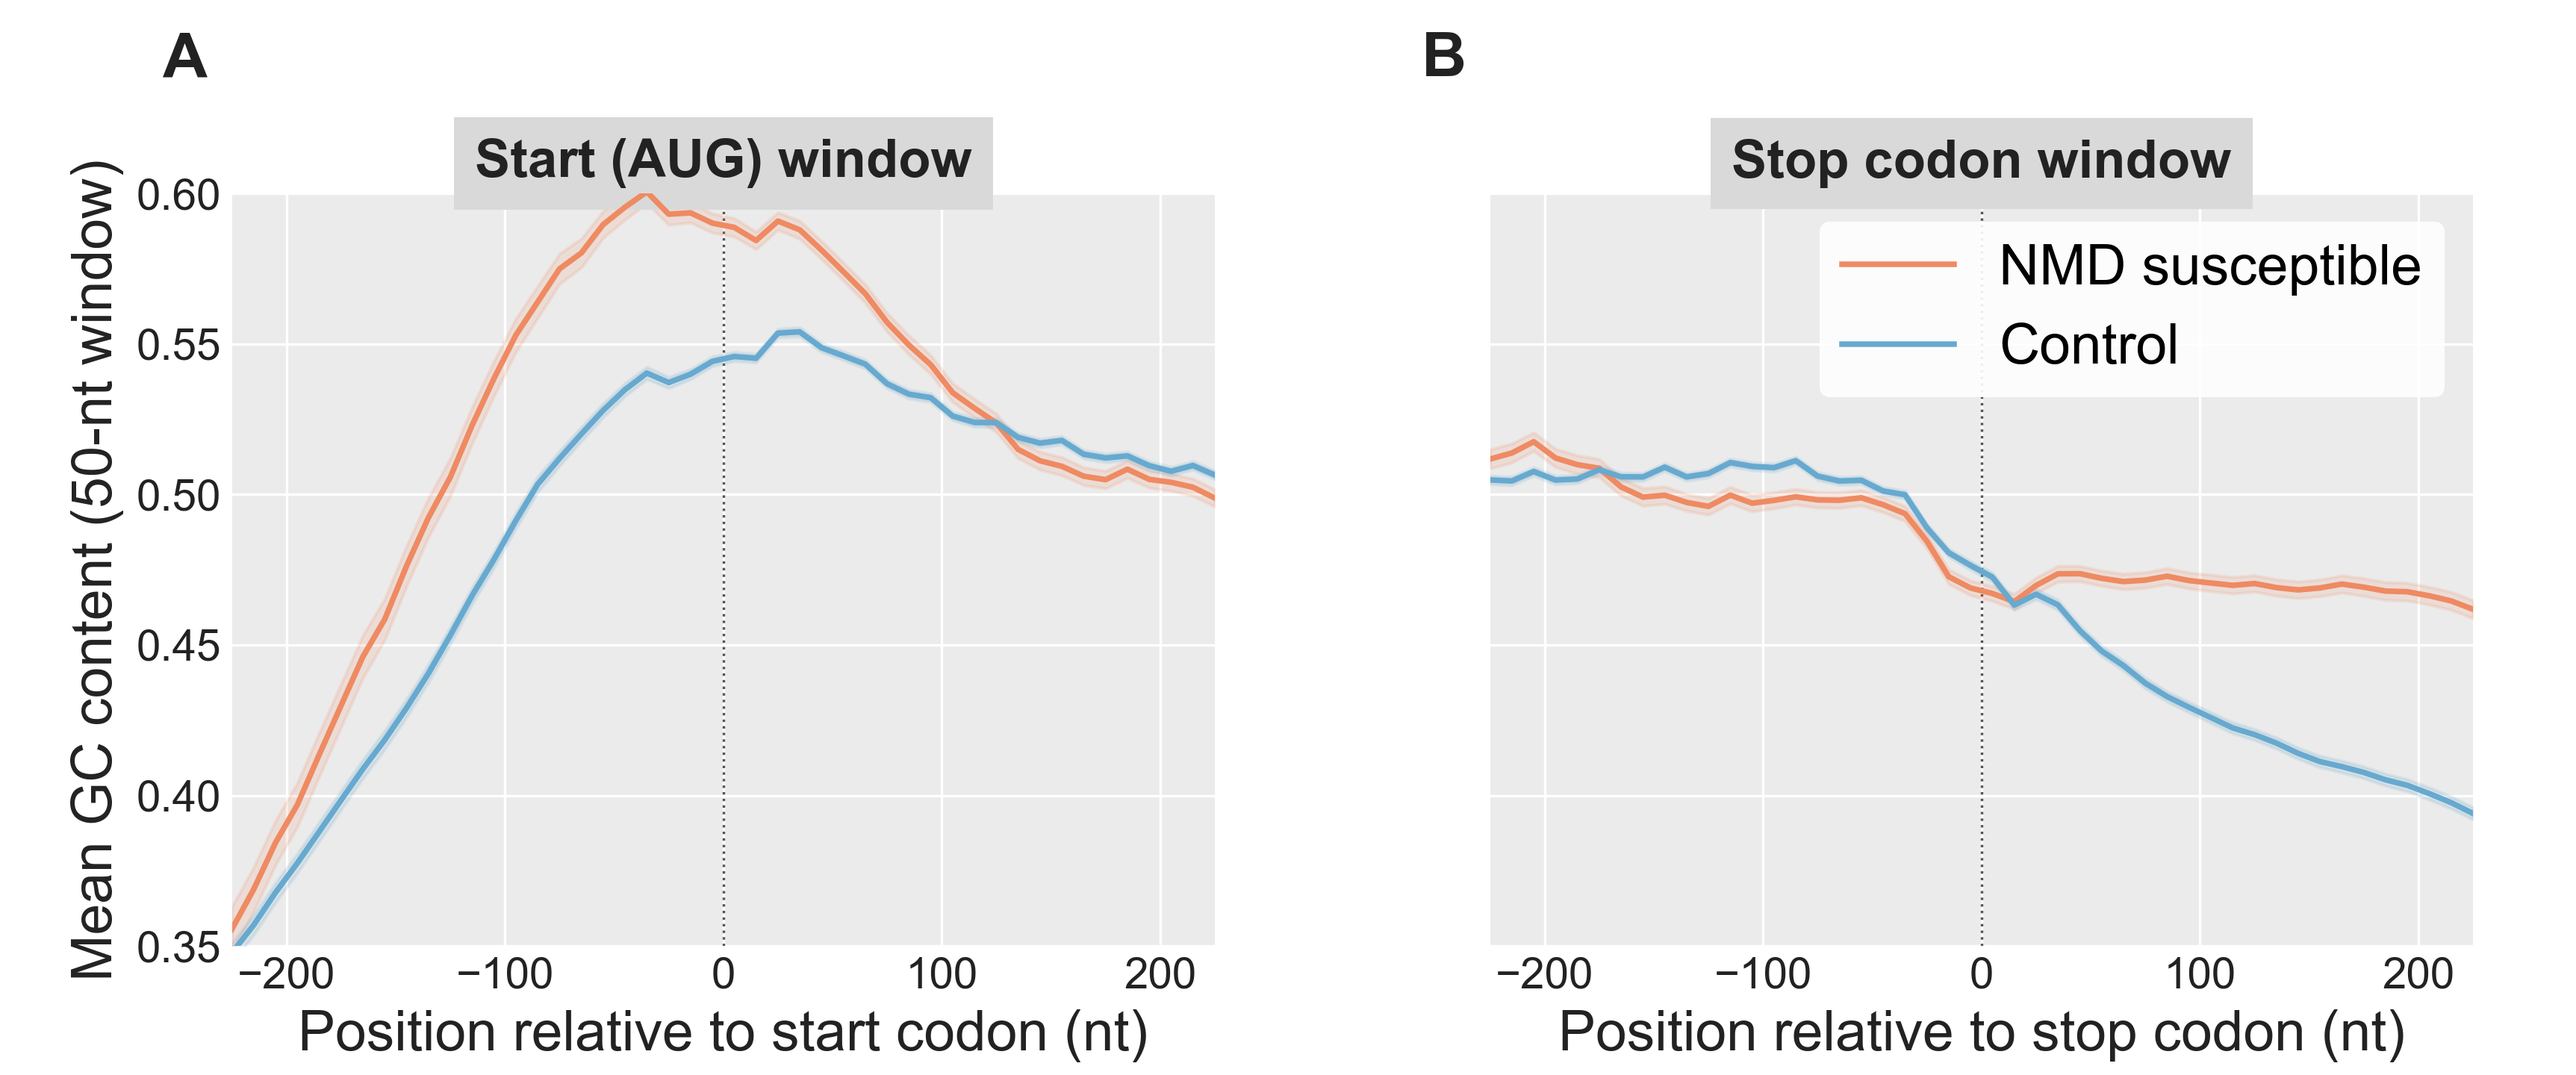
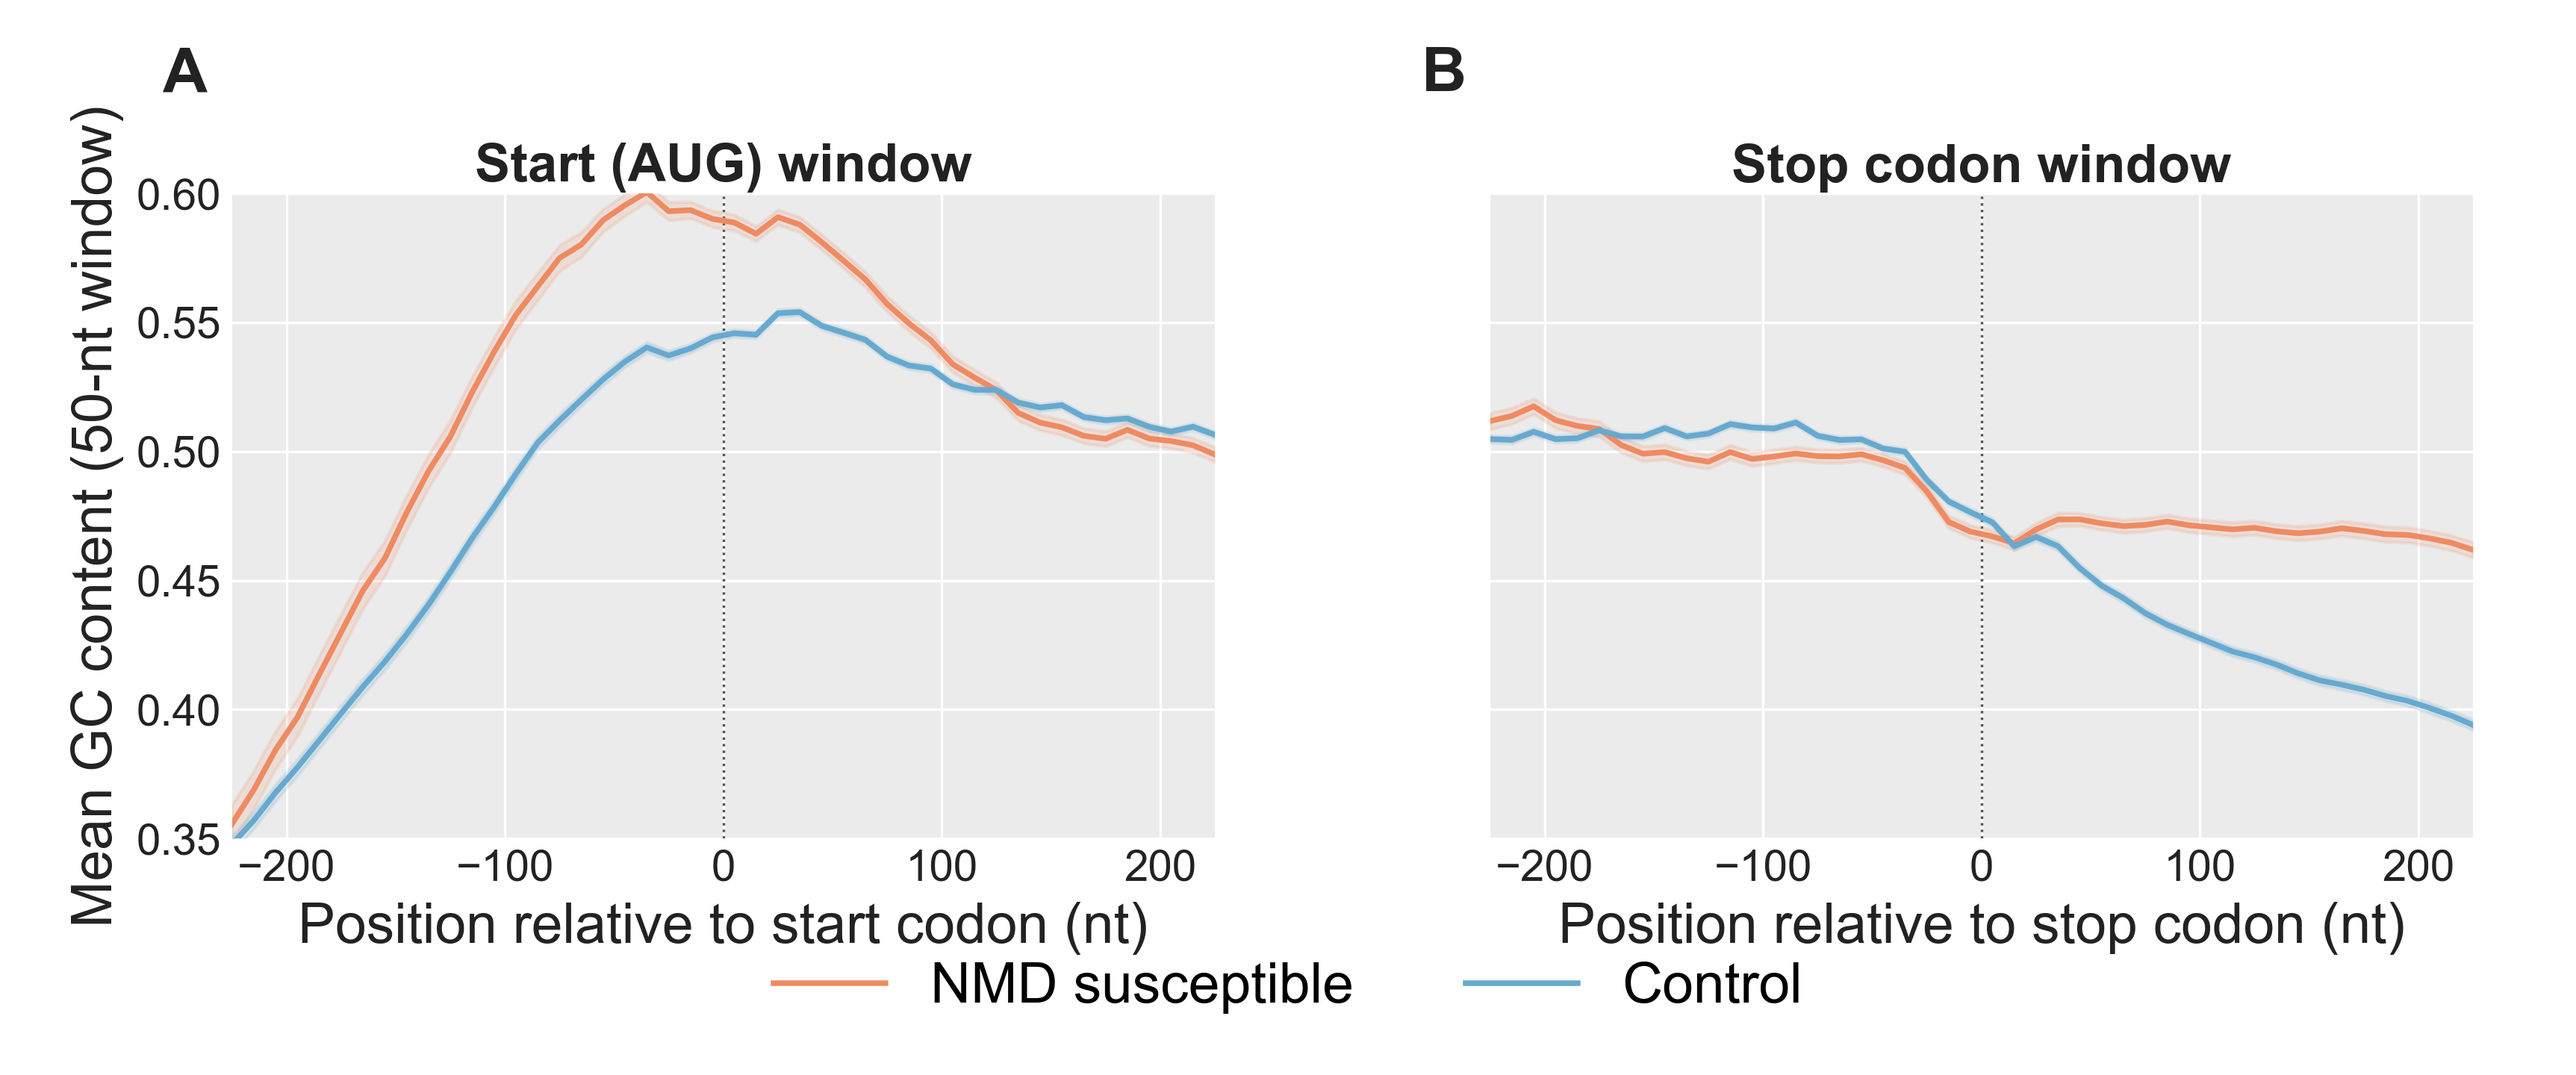
SF41: plain bold headers + external legend + concise legend text
- #11: gray facet-strip headers -> plain bold (shared facet_header fix)
- legend -> shared figure-level legend at bottom (GC curves fill both panels;
  resolves the B3 assert_legend_clear residual)
- #12: concise legend, title-cased; counts internally consistent (1,743/2,268 = 76.9%)

diff --git a/figures/SupplementalFigures/SF41_GCcontentStopWindow/figure_sf41_gc_content_stop_window.py b/figures/SupplementalFigures/SF41_GCcontentStopWindow/figure_sf41_gc_content_stop_window.py
@@ -89,7 +89,7 @@ def main():
     stop = load("stop")
 
     fig, axes = plt.subplots(1, 2, figsize=(NATIVE_W, 4.8), sharey=True)
-    fig.subplots_adjust(left=0.09, right=0.96, top=0.82, bottom=0.12, wspace=0.28)
+    fig.subplots_adjust(left=0.09, right=0.96, top=0.82, bottom=0.22, wspace=0.28)
 
     draw_panel(axes[0], atg,  codon_label="start codon")
     draw_panel(axes[1], stop, codon_label="stop codon")
@@ -101,8 +101,11 @@ def main():
     panel_letter(axes[0], "A", x=-0.07, y=1.14)
     panel_letter(axes[1], "B", x=-0.07, y=1.14)
 
-    axes[1].legend(loc="upper right", frameon=True, framealpha=0.9,
-                    edgecolor="none", facecolor="white", fontsize=BODY_FS)
+    # Shared legend in the bottom margin — the GC curves fill both panels,
+    # so an in-panel legend can't clear the data.
+    handles, labels = axes[0].get_legend_handles_labels()
+    fig.legend(handles, labels, loc="lower center", ncol=2, frameon=False,
+               fontsize=BODY_FS, bbox_to_anchor=(0.5, 0.01))
 
     # Facet headers extend past axis edges by design.
     render_and_validate(fig, HERE / "figure_sf41_gc_content_stop_window",

diff --git a/figures/SupplementalFigures/SF41_GCcontentStopWindow/figure_sf41_gc_content_stop_window_legend.md b/figures/SupplementalFigures/SF41_GCcontentStopWindow/figure_sf41_gc_content_stop_window_legend.md
@@ -1,1 +1,1 @@
-**SF41 | Rolling GC Content Across the AUG and Stop Codon Windows.** Mean rolling GC content per position of the transcript sequences supplied to the deep-learning model, comparing NMD susceptible (orange) and Control (blue) transcripts on the held-out test set. Each transcript's window is centered on its main open reading frame's start or stop codon. Main open reading frames are chosen with the following priority: the annotated reference CDS (projected from the gene's dominant non-NMD isoform) when available; otherwise the TransDecoder2-called CDS; otherwise the highest-Kozak-scoring open reading frame (see Methods, Main open reading frame selection). NMD susceptible transcripts are restricted here to those whose main open reading frame is the annotated reference CDS (n = 1,743 of 2,268 NMD test transcripts, 76.9%), so that position 0 is the reference stop codon rather than a downstream TransDecoder2 stop codon; Control transcripts are unrestricted (n = 7,863). GC content is computed in a 50-nt sliding window with a 10-nt step from the model's one-hot nucleotide input channels; shading, ± 1 standard error of the mean. A) AUG window. B) Stop codon window.
+**SF41 | Rolling GC Content Across the Start Codon and Stop Codon Windows.** Mean rolling GC content per position, comparing NMD susceptible (orange) and Control (blue) transcripts on the held-out test set. Windows are centered on each transcript's main ORF start or stop codon; main ORFs are chosen as described in Methods. NMD susceptible transcripts are restricted to those whose main ORF is the annotated reference CDS (n = 1,743 of 2,268 NMD test transcripts, 76.9%), so that position 0 is the reference stop codon; Control transcripts are unrestricted (n = 7,863). GC content is computed in a 50-nt sliding window with a 10-nt step from the model's one-hot nucleotide input channels; shading, ± 1 SEM. (A) Start codon window. (B) Stop codon window. Abbreviations. CDS, coding sequence; GC, guanine + cytosine; ORF, open reading frame; SEM, standard error of the mean.
